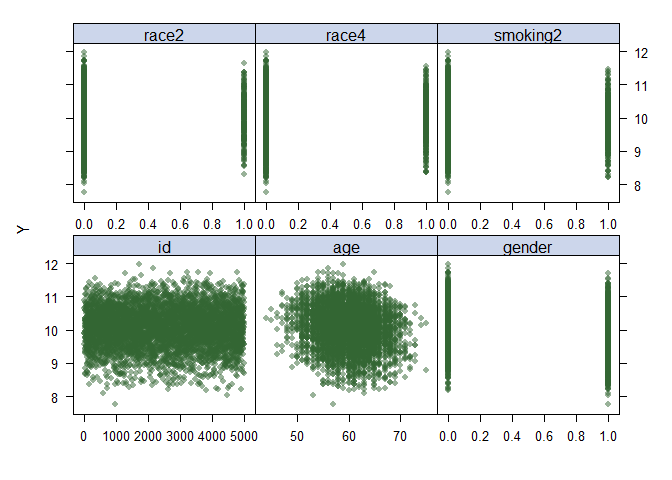
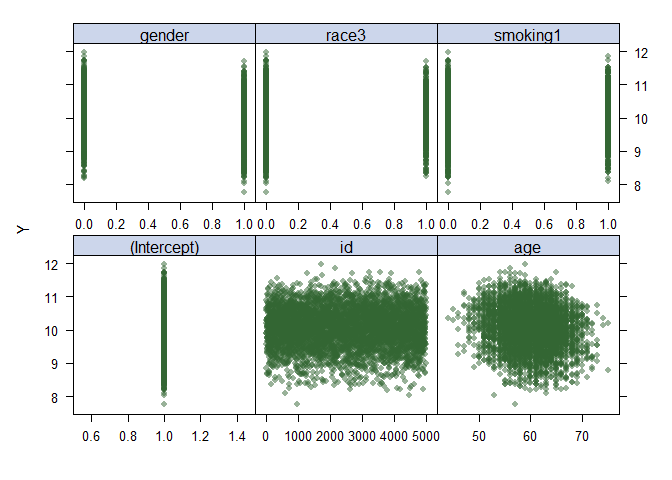
Model

diff --git a/DS2_Midterm.md b/DS2_Midterm.md
@@ -117,7 +117,7 @@ data(dat1)
     ## Warning in data(dat1): data set 'dat1' not found
 
 ``` r
-x = model.matrix(log_antibody ~ ., dat1)[,-1]
+x = model.matrix(log_antibody ~ ., dat1)
 y = dat1$log_antibody
 
 theme1 <- trellis.par.get()
@@ -140,8 +140,98 @@ are continuous are showing non-linear function. Given this, the optimal
 model to use to explore the nonlinear relationships between predictors
 of interest and antibody level, is a Generalized Additive Model (GAM).
 
+### Creating factors for the Race and Smoking variables to use in the model
+
+``` r
+dat1$race = factor(dat1$race, 
+                         levels = c(1, 2, 3, 4), 
+                         labels = c("White", "Asian", "Black", "Hispanic"))
+
+dat1$smoking = factor(dat1$smoking, 
+                            levels = c(0, 1, 2), 
+                            labels = c("Never", "Former", "Current"))
+
+dat1$race = relevel(dat1$race, ref = "White")
+dat1$smoking = relevel(dat1$smoking, ref = "Never")
+```
+
 ### Generalized Additive Model (GAM)
 
 ``` r
 set.seed(2)
+
+gam.m1 = gam(log_antibody ~ age + gender + race + smoking + height + weight + bmi + diabetes + hypertension + SBP + LDL + time,
+data = dat1)
+
+gam.m2 = gam(log_antibody ~ s(age) + gender + race + smoking + height + weight + s(bmi) + diabetes + hypertension + s(SBP) + s(LDL) + s(time),
+data = dat1)
+
+gam.m3 = gam(log_antibody ~ s(age) + gender + race + smoking + te(height, weight) + s(bmi) + diabetes + hypertension + s(SBP) + s(LDL) + s(time),
+data = dat1)
+
+anova(gam.m1, gam.m2, gam.m3, test = "F")
 ```
+
+    ## Analysis of Deviance Table
+    ## 
+    ## Model 1: log_antibody ~ age + gender + race + smoking + height + weight + 
+    ##     bmi + diabetes + hypertension + SBP + LDL + time
+    ## Model 2: log_antibody ~ s(age) + gender + race + smoking + height + weight + 
+    ##     s(bmi) + diabetes + hypertension + s(SBP) + s(LDL) + s(time)
+    ## Model 3: log_antibody ~ s(age) + gender + race + smoking + te(height, 
+    ##     weight) + s(bmi) + diabetes + hypertension + s(SBP) + s(LDL) + 
+    ##     s(time)
+    ##   Resid. Df Resid. Dev      Df Deviance       F Pr(>F)    
+    ## 1    4984.0     1509.4                                    
+    ## 2    4971.2     1380.0 12.8235  129.390 36.3775 <2e-16 ***
+    ## 3    4968.5     1378.8  2.6365    1.235  1.6882 0.1739    
+    ## ---
+    ## Signif. codes:  0 '***' 0.001 '**' 0.01 '*' 0.05 '.' 0.1 ' ' 1
+
+``` r
+plot(gam.m2)
+```
+
+![](DS2_Midterm_files/figure-gfm/unnamed-chunk-5-1.png)<!-- -->![](DS2_Midterm_files/figure-gfm/unnamed-chunk-5-2.png)<!-- -->![](DS2_Midterm_files/figure-gfm/unnamed-chunk-5-3.png)<!-- -->![](DS2_Midterm_files/figure-gfm/unnamed-chunk-5-4.png)<!-- -->![](DS2_Midterm_files/figure-gfm/unnamed-chunk-5-5.png)<!-- -->
+
+``` r
+vis.gam(gam.m3, view = c("height","weight"),
+color = "topo")
+```
+
+![](DS2_Midterm_files/figure-gfm/unnamed-chunk-6-1.png)<!-- -->
+
+``` r
+ctrl1 = trainControl(method = "cv", number = 10)
+x = dat1[, c("age", "gender", "race", "smoking", "height", "weight", "bmi", 
+              "diabetes", "hypertension", "SBP", "LDL", "time")]
+y = dat1$log_antibody
+
+set.seed(2)
+gam.fit = train(x, y,
+method = "gam",
+trControl = ctrl1)
+gam.fit$bestTune
+```
+
+    ##   select method
+    ## 2   TRUE GCV.Cp
+
+``` r
+gam.fit$finalModel
+```
+
+    ## 
+    ## Family: gaussian 
+    ## Link function: identity 
+    ## 
+    ## Formula:
+    ## .outcome ~ gender + diabetes + hypertension + smoking + race + 
+    ##     s(age) + s(SBP) + s(LDL) + s(bmi) + s(time) + s(height) + 
+    ##     s(weight)
+    ## 
+    ## Estimated degrees of freedom:
+    ## 0.991 0.000 0.000 4.179 7.892 1.234 0.000 
+    ##  total = 23.3 
+    ## 
+    ## GCV score: 0.2786734
